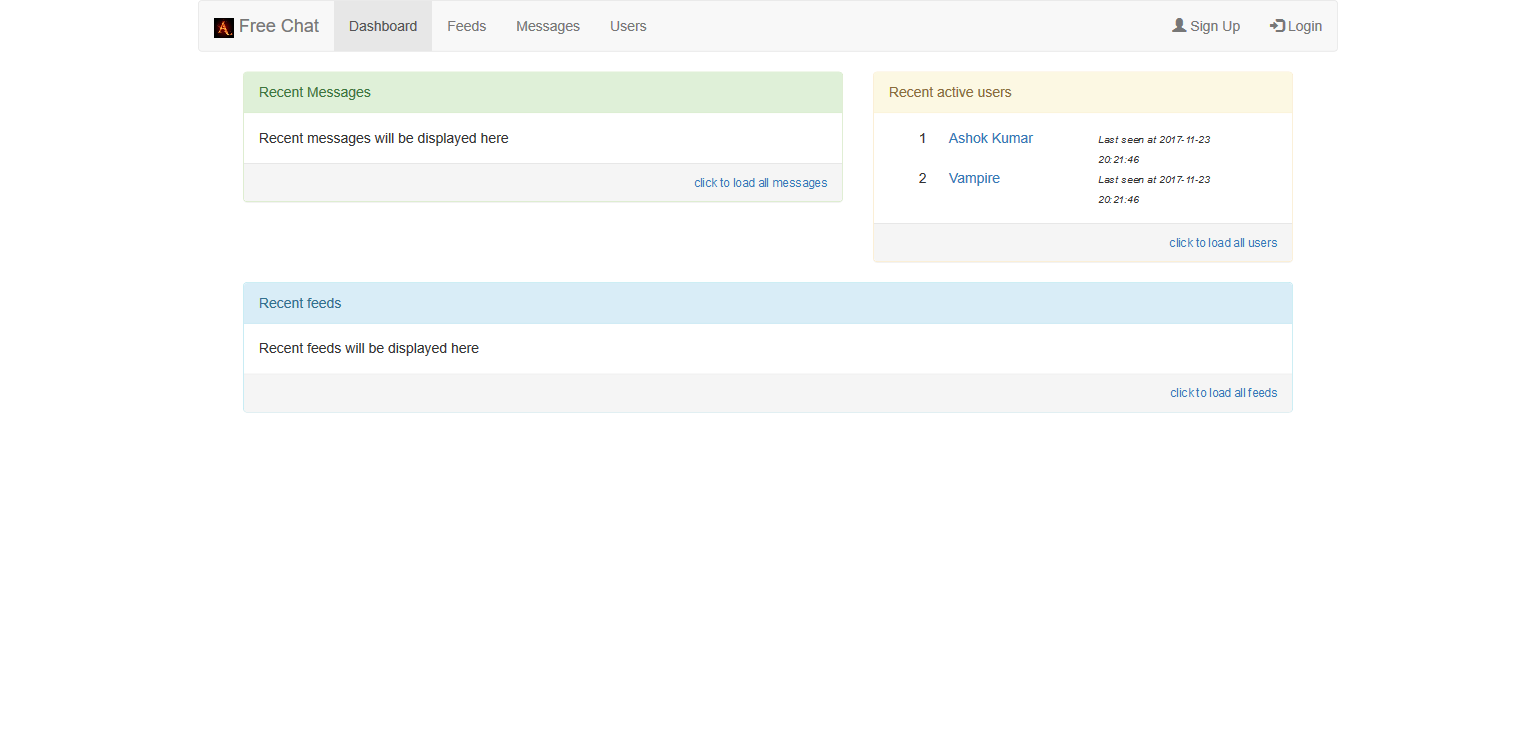
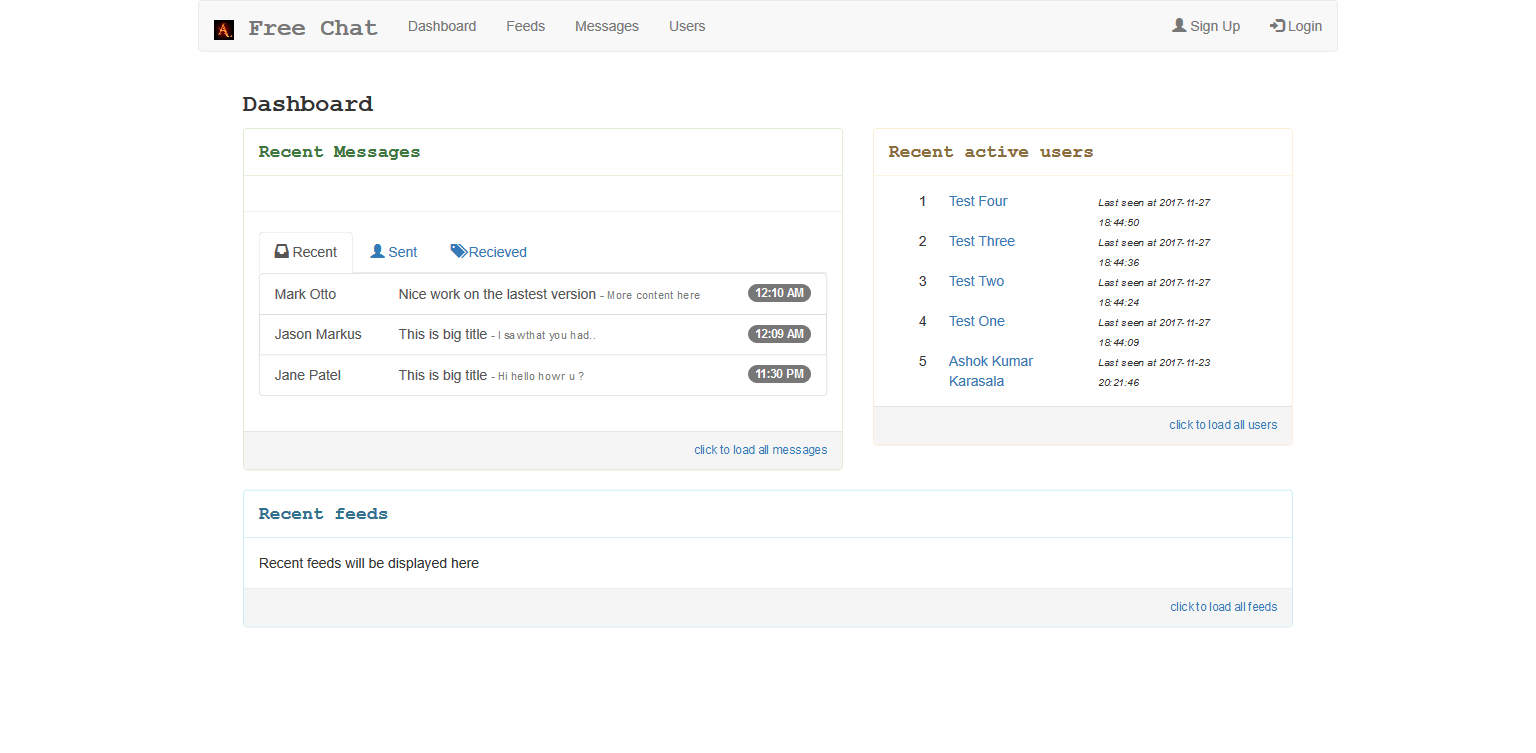
Ui Updates,Messenger Panel added with static data

diff --git a/src/main/webapp/index.html b/src/main/webapp/index.html
@@ -39,17 +39,68 @@
   <h3 class="heading-style col-md-12">Dashboard</h3>
   	<div id="panel1" class="col-md-12">
   		<div id="messages-db" class="col-md-7">
-  			<div class="panel panel-success">
-			    <div class="panel-heading">Recent Messages</div>
-			    <div class="panel-body">Recent messages will be displayed here</div>
+  			<div class="panel panel-success ">
+			    <div class="panel-heading panel-header-custom">Recent Messages</div>
+			    <div class="panel-body">
+						 <div class="row">
+       
+    <hr>
+
+        <div class="col-sm-9 col-md-12">
+            <!-- Nav tabs -->
+            <ul class="nav nav-tabs">
+                <li class="active"><a href="#recent" data-toggle="tab"><span class="glyphicon glyphicon-inbox">
+                </span> Recent</a></li>
+                <li><a href="#sent" data-toggle="tab"><span class="glyphicon glyphicon-user"></span>
+                    Sent</a></li>
+                <li><a href="#recieved" data-toggle="tab"><span class="glyphicon glyphicon-tags"></span>
+                     Recieved</a></li>
+            </ul>
+            <!-- Tab panes -->
+            <div class="tab-content">
+                <div class="tab-pane fade in active" id="recent">
+                    <div class="list-group">
+                        <a href="#" class="list-group-item">
+                            
+                            <span class="name" style="min-width: 120px;
+                                display: inline-block;">Mark Otto</span> <span class="">Nice work on the lastest version</span>
+                            <span class="text-muted" style="font-size: 11px;">- More content here</span> <span class="badge">12:10 AM</span> <span class="pull-right"></span></a><a href="#" class="list-group-item">
+                                   
+                                    <span class="name" style="min-width: 120px;
+                                        display: inline-block;">Jason Markus</span> <span class="">This is big title</span>
+                                    <span class="text-muted" style="font-size: 11px;">- I saw that you had..</span> <span class="badge">12:09 AM</span> <span class="pull-right"></span></a>
+                                    
+                                    <a href="#" class="list-group-item read">
+                                        
+                                            <span class="name" style="min-width: 120px;
+                                                display: inline-block;">Jane Patel</span> <span class="">This is big title</span>
+                                            <span class="text-muted" style="font-size: 11px;">- Hi hello how r u ?</span> <span class="badge">11:30 PM</span> </span></a>
+                    </div>
+                </div>
+                <div class="tab-pane fade in" id="sent">
+                    <div class="list-group">
+                        <div class="list-group-item">
+                            <span class="text-center">This tab is empty.</span>
+                        </div>
+                    </div>
+                </div>
+                <div class="tab-pane fade in" id="recieved">
+                    ...</div>
+
+            </div>
+            
+        </div>
+    </div>
+
+				</div>
 			    <div class="panel-footer panel-footer-custom"><a href="#" onclick="loadMessages();">click to load all messages</a></div>
 		  	</div>
 	  		
   		</div>
   		
   		<div  id="users-db" class="col-md-5">
-  			<div class="panel panel-warning">
-			    <div class="panel-heading">Recent active users</div>
+  			<div class="panel panel-warning ">
+			    <div class="panel-heading panel-header-custom">Recent active users</div>
 			    <div class="panel-body"></div>
 			    <div class="panel-footer panel-footer-custom"><a href="#" onclick="loadUsers();">click to load all users</a></div>
 		  	</div>
@@ -58,8 +109,8 @@
   	</div>
   	<div id="panel2" class="col-md-12">
   	<div id="feeds-db" class="col-md-12">
-		  	<div class="panel panel-info">
-			    <div class="panel-heading">Recent feeds</div>
+		  	<div class="panel panel-info ">
+			    <div class="panel-heading panel-header-custom">Recent feeds</div>
 			    <div class="panel-body">Recent feeds will be displayed here</div>
 			    <div class="panel-footer panel-footer-custom"><a href="#" onclick="loadFeeds();">click to load all feeds</a></div>
 		  	</div>

diff --git a/src/main/webapp/Scripts/App.js b/src/main/webapp/Scripts/App.js
@@ -46,7 +46,7 @@ function loadActiveUsers(){
 			  $(children[0]).html(id);
 			  var anchor=$(children[1]).find("a");
 			  $(anchor).attr("onclick","loadConversation('"+value.userName+"')");
-			  $(anchor).html(value.firstName);
+			  $(anchor).html(value.firstName+" "+value.lastName);
 			  $(children[2]).find("i").html("Last seen at "+value.lastLoginDate.substring(0,value.lastLoginDate.length-2));
 			  $('#users-db').find(".panel-body").append(row);
 			  id++;

diff --git a/src/main/webapp/Styles/app.css b/src/main/webapp/Styles/app.css
@@ -25,3 +25,14 @@
 	font-weight:bold;
 	margin-left:15px;
 }
+
+.panel-header-custom{
+	font-family: Courier New, Courier, Lucida Sans Typewriter, Lucida Typewriter, monospace;
+	font-size: 18px;
+	font-style: normal;
+	font-variant: normal;
+	font-weight: 500;
+	line-height: 26.4px;
+	font-weight:bold;
+	background-color:white!important;
+}

diff --git a/src/main/java/com/ashok/dev/Messenger_JAX_RS/dao/UsersDAO.java b/src/main/java/com/ashok/dev/Messenger_JAX_RS/dao/UsersDAO.java
@@ -66,7 +66,7 @@ public class UsersDAO {
 		try{
 		 connection=new ConnectionHelper().getConnection();
 		 statement=connection.createStatement();
-		 resultSet=statement.executeQuery("select * from users order by last_login_datetime limit 5");
+		 resultSet=statement.executeQuery("select * from users order by last_login_datetime DESC limit 5");
 		while(resultSet.next()){
 			User user=new User(resultSet.getInt("user_id"),resultSet.getString("username"),resultSet.getString("firstname"),resultSet.getString("lastname"),resultSet.getString("last_login_datetime"),resultSet.getString("gender"),resultSet.getString("email"),resultSet.getString("mobile"));
 			users.add(user);
